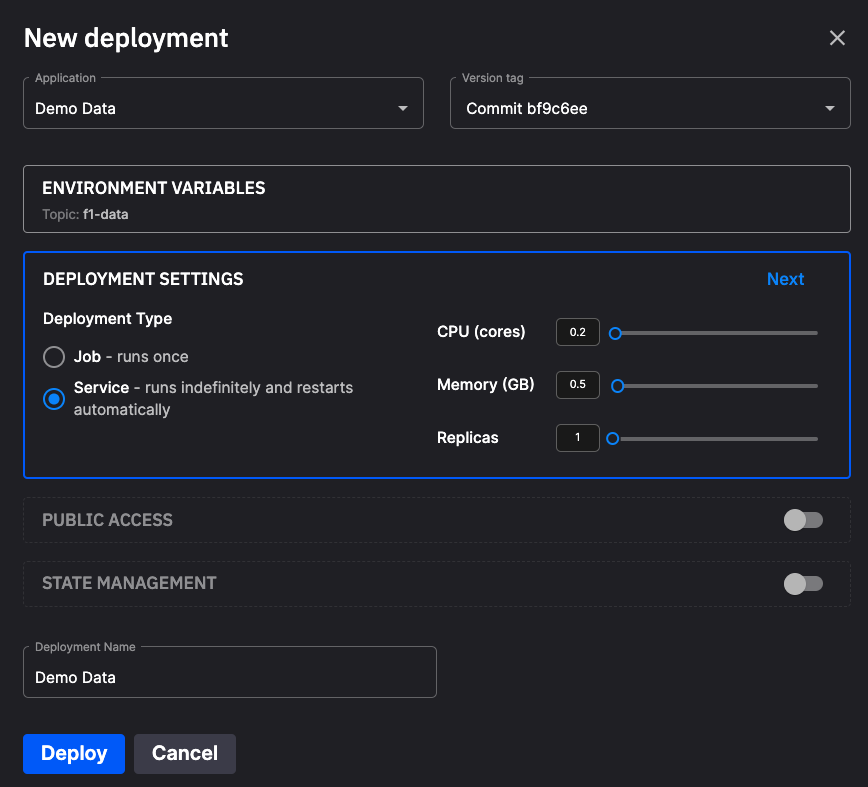
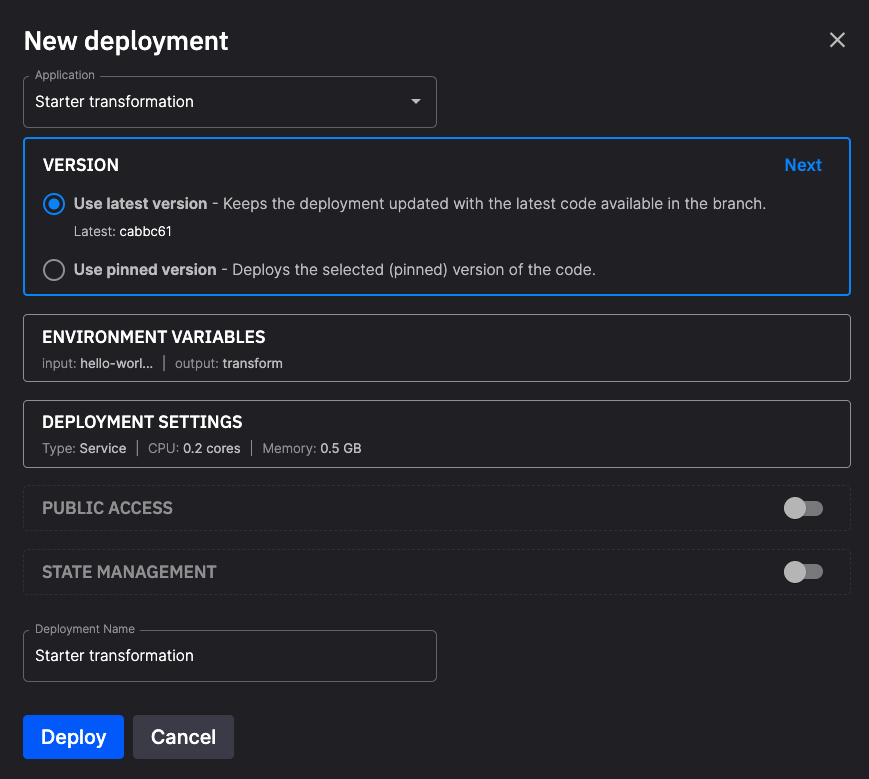
[update] - deployment overview

diff --git a/docs/deploy/overview.md b/docs/deploy/overview.md
@@ -1,6 +1,6 @@
 ---
 title: Deploy your application
-description: Deploy your application as a service in the pipeline.
+description: Deploy your application as a service in the pipeline. This documentation describes how to deploy and redeploy a service.
 ---
 
 # Deploy your application
@@ -20,17 +20,44 @@ When you deploy your application the dialog you see is the `New deployment` dial
 
 ![New deployment](../images/deploy/new-deployment-dialog.png){width=80%}
 
-If you are redeploying your application you see a similar dialog.
+## Deployment version
+
+The version of the code you are going to deploy. You can use the latest version available in the branch, or you can select a pinned version. Using the latest version makes sure you always use the most recently committed code in the service. A pinned version is usually one you have created a specific tag for, or it could be a specific commit. You can select the pinned version you want from the dropdown. The version tag needs to be unique for the project.
+
+If you're using the latest version of the code you'll see `Latest` displayed in the corresponding service panel:
+
+![Latest version](../images/deploy/deployment-latest-version.png)
+
+If you're using a pinned (tagged or specified commit) you'll see the tag or commit number as appropriate:
+
+![Tagged version](../images/deploy/deployment-tagged-version.png)
+
+!!! tip
+
+    If you modify the code for a deployment and commit it, then the system recognizes that your pipeline is out of sync with the code in the project, and you are prompted to sync your environment. 
+    
+    ![Out of sync](../images/deploy/out-of-sync.png)
+    
+    However, this deploys the service with the new code immediately, which might not be what you want. If you want to continue editing your code, simply ignore the sync request, edit your code, then redeploy to either the latest version or a pinned version as required. The `sync environment` prompt will disappear at this point, as your project is now synchronized, that is the pipeline is running the version of code you specified.
+
+## Deployment settings
+
+The following screenshot shows the deployment settings panel:
+
+![Deployment settings](../images/deploy/deployment-settings.png){width=80%}
 
 The main features are described in the following table:
 
 | Dialog Item | Description |
 |----|----|
 | Application | You can select the name of the application you are deploying from here. |
-| Version tag | The version tag for the code you are going to deploy. The version tag needs to be unique for the project. |
+| Version | The version of the code you are going to deploy. See [deployment version](#deployment-version) for further details. |
 | Environment variables | Any environment variables your application uses are shown here. |
 | Deployment settings | Here you can select whether you want the application to run as a job or a service. You can also provide vertical scaling here by allocating more CPU and memory to the application. You can also provide some horizontal scaling by having more than one replica. A replica is an instance of the application running. When replicas are part of a consumer group, they can spread processing of streams across all replicas. |
 | Public access | This is where you want to make the application accessible to the Internet. For example, if the service implements a UI it will usually be available through the web. |
 | State management | If you enable state, your application can preserve state between restarts. A `state` folder is created that is used for data structures and files you want to preserve in the event of service crashes or restarts. See also the [docs on state management](./state-management.md). |
 | Deployment name | You can change the name of the deployment. |
 
+## Redeploying a service
+
+If you subsequently edit your service code (application) and then click `Redeploy`, you are presented with the `Edit deployment` dialog. The same options previously mentioned are displayed in the dialog. Change the deployment settings as required (perhaps to allocate more resources, or use the latest or a pinned version of the code), and then click `Redeploy`.
